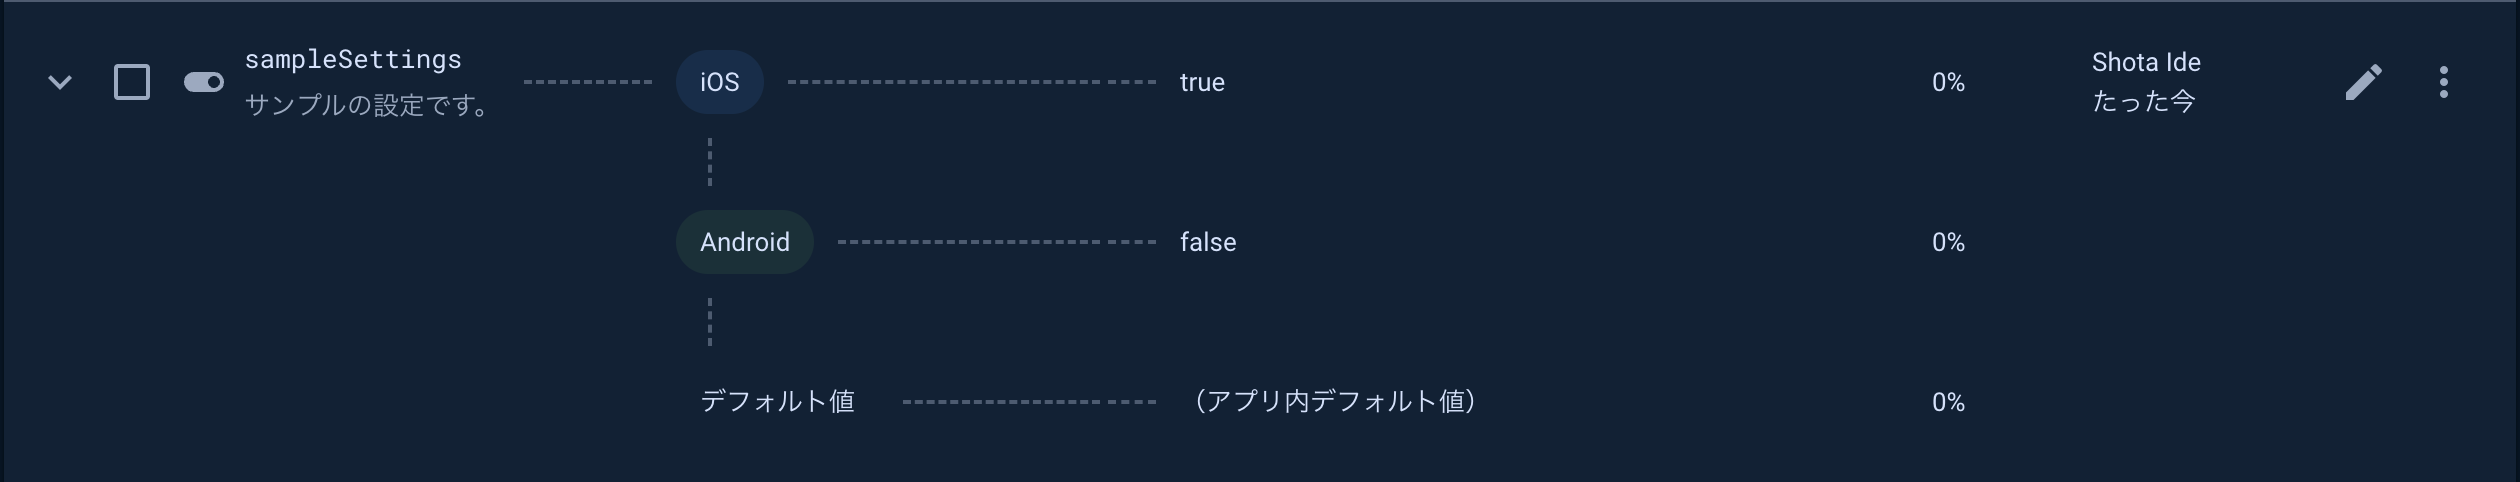
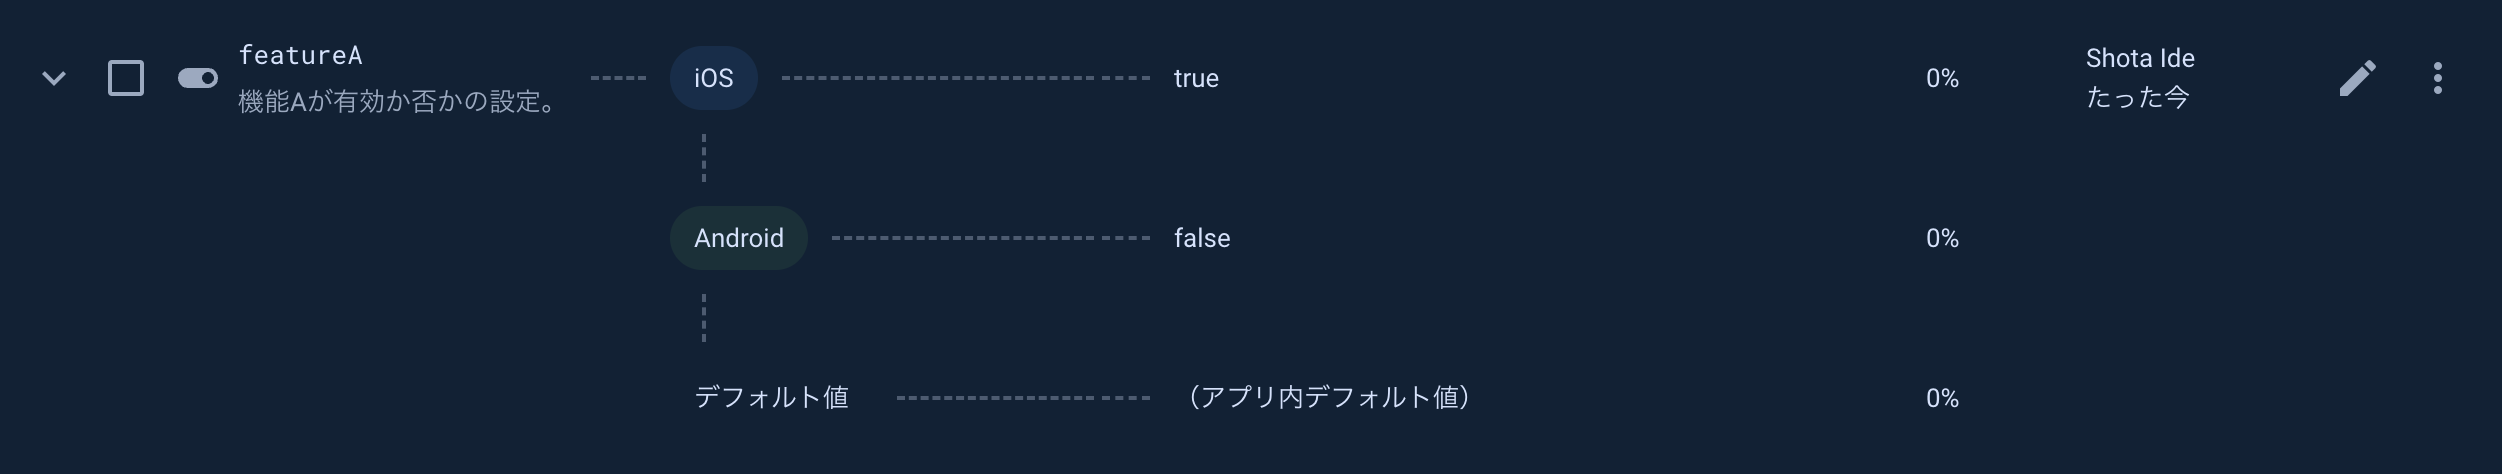
fix

diff --git a/articles/firebase-remote-config.md b/articles/firebase-remote-config.md
@@ -58,6 +58,15 @@ Firebase Remote Config のライブラリを依存関係に追加します。
 
 モバイルアプリ側では、リモート設定の値に応じてプログラム中に分岐を書き、フィーチャートグル ON の時の挙動と OFF の時の挙動を両方定義します。
 
+```swift
+let isFeatureAEnabled = RemoteConfig.remoteConfig.configValue(forKey: "featureA").boolValue
+if isFeatureAEnabled {
+    // 機能A のフィーチャートグル ON の時の挙動
+} else {
+    // 機能A のフィーチャートグル OFF の時の挙動
+}
+```
+
 リモート設定がサーバーから 1 回も同期できていない場合は、モバイルアプリ側で定義してあるデフォルトの設定値を使用します。
 
 また、リモート設定のサーバーからの同期は、アプリがフォアグラウンド状態の場合に数秒以内のタイムラグを含みつつリアルタイムで行われます。
